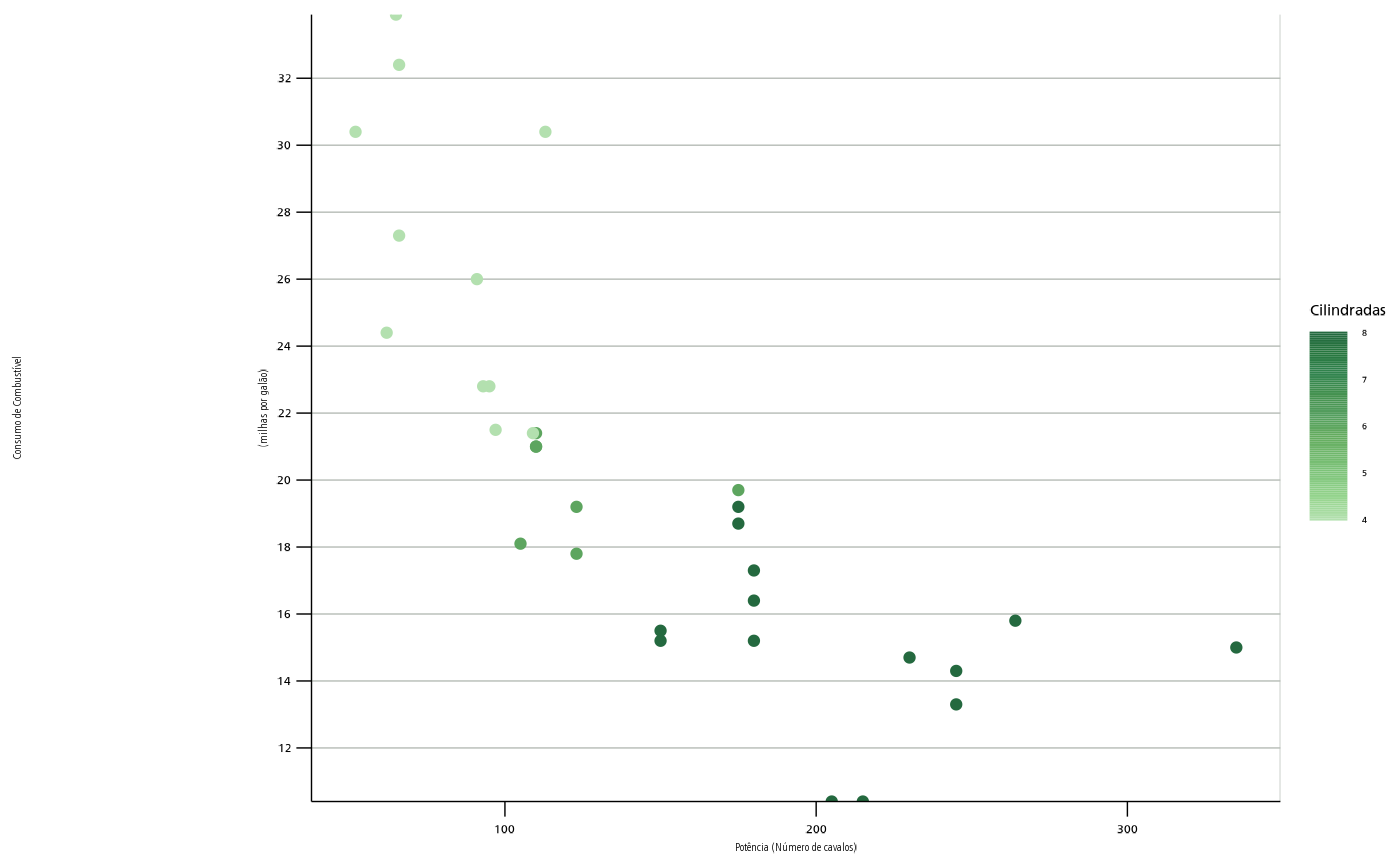
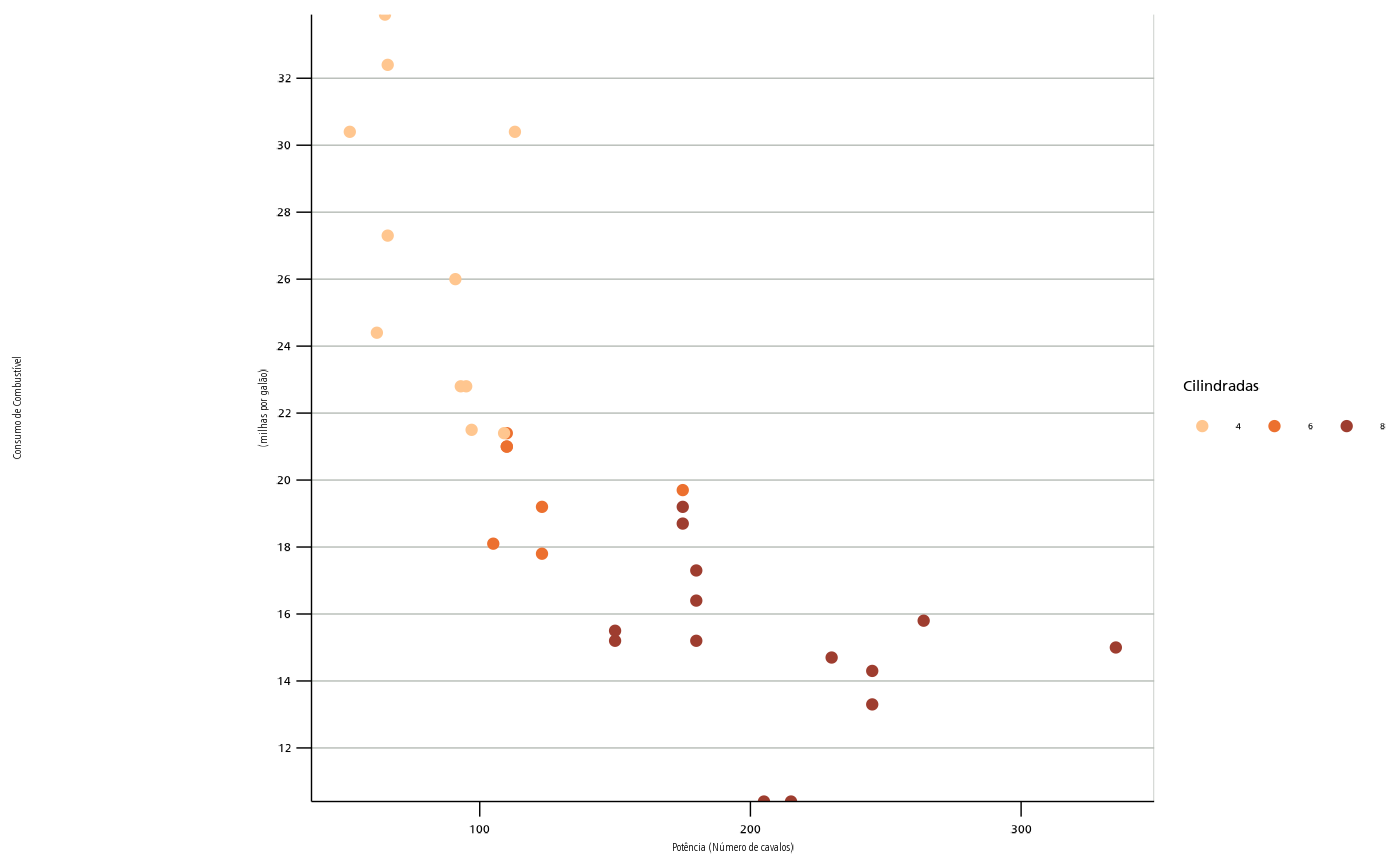
Deploying to gh-pages from @ ipeadata-lab/ipeaplot@4a94a9e4f04e16ceb81d7cdc56aabc15e2f34e58 🚀

diff --git a/articles/intro_ipeaplot.html b/articles/intro_ipeaplot.html
@@ -161,17 +161,18 @@ diversas outras opções. Isso incluir tanto paletas
 <code>c("Blue", "Green", "Orange", "Pink")</code> como paletes de cores
 divergentes <code>c("Red-Blue", "Orange-Blue")</code>.</p>
 <p><strong>Cores sequenciais:</strong>
-<img src="intro_ipeaplot_files/figure-html/unnamed-chunk-5-1.png" width="100%"><img src="intro_ipeaplot_files/figure-html/unnamed-chunk-6-1.png" width="100%"><img src="intro_ipeaplot_files/figure-html/unnamed-chunk-7-1.png" width="100%"><strong>Cores divergentes:</strong>
-<img src="intro_ipeaplot_files/figure-html/unnamed-chunk-8-1.png" width="100%"><img src="intro_ipeaplot_files/figure-html/unnamed-chunk-9-1.png" width="100%"></p>
+<img src="intro_ipeaplot_files/figure-html/unnamed-chunk-5-1.png" width="100%"><img src="intro_ipeaplot_files/figure-html/unnamed-chunk-5-2.png" width="100%"></p>
+<p><img src="intro_ipeaplot_files/figure-html/unnamed-chunk-6-1.png" width="100%"><strong>Cores divergentes:</strong>
+<img src="intro_ipeaplot_files/figure-html/unnamed-chunk-7-1.png" width="100%"><img src="intro_ipeaplot_files/figure-html/unnamed-chunk-8-1.png" width="100%"></p>
 <div class="sourceCode" id="cb4"><pre class="downlit sourceCode r">
 <code class="sourceCode R"><span><span class="co"># paleta sequencial verde</span></span>
 <span><span class="va">fig_base</span> <span class="op">+</span> <span class="fu"><a href="../reference/scale_color_ipea.html">scale_color_ipea</a></span><span class="op">(</span>palette <span class="op">=</span> <span class="st">"Green"</span><span class="op">)</span></span></code></pre></div>
-<p><img src="intro_ipeaplot_files/figure-html/unnamed-chunk-10-1.png" width="100%"></p>
+<p><img src="intro_ipeaplot_files/figure-html/unnamed-chunk-9-1.png" width="100%"></p>
 <div class="sourceCode" id="cb5"><pre class="downlit sourceCode r">
 <code class="sourceCode R"><span></span>
-<span><span class="co"># paleta divergente laranja</span></span>
+<span><span class="co"># paleta divergente de laranja a azul</span></span>
 <span><span class="va">fig_base</span> <span class="op">+</span> <span class="fu"><a href="../reference/scale_color_ipea.html">scale_color_ipea</a></span><span class="op">(</span>palette <span class="op">=</span> <span class="st">"Orange-Blue"</span><span class="op">)</span></span></code></pre></div>
-<p><img src="intro_ipeaplot_files/figure-html/unnamed-chunk-10-2.png" width="100%"></p>
+<p><img src="intro_ipeaplot_files/figure-html/unnamed-chunk-9-2.png" width="100%"></p>
 <p>Por padrão, as funções <code><a href="../reference/scale_color_ipea.html">scale_color_ipea()</a></code> e
 <code><a href="../reference/scale_fill_ipea.html">scale_fill_ipea()</a></code> geram escalas de cores para variáveis
 <strong>contínuas</strong>. Para utilizar uma escala de core para
@@ -185,7 +186,7 @@ variáveis discretas, basta passar o parâmetro
 <span>       color<span class="op">=</span><span class="st">'Cilindradas'</span><span class="op">)</span> <span class="op">+</span></span>
 <span>  <span class="fu"><a href="../reference/scale_color_ipea.html">scale_color_ipea</a></span><span class="op">(</span>palette <span class="op">=</span> <span class="st">"Orange"</span>, discrete <span class="op">=</span> <span class="cn">TRUE</span> <span class="op">)</span> <span class="op">+</span></span>
 <span>  <span class="fu"><a href="../reference/theme_ipea.html">theme_ipea</a></span><span class="op">(</span><span class="op">)</span></span></code></pre></div>
-<p><img src="intro_ipeaplot_files/figure-html/unnamed-chunk-11-1.png" width="100%"></p>
+<p><img src="intro_ipeaplot_files/figure-html/unnamed-chunk-10-1.png" width="100%"></p>
 <p>Além de seleciona a paleta de cores, as funções
 <code><a href="../reference/scale_color_ipea.html">scale_color_ipea()</a></code> e <code><a href="../reference/scale_fill_ipea.html">scale_fill_ipea()</a></code> trazem
 ainda outros parâmetros que permitem escolher o separador de casa
@@ -230,7 +231,7 @@ using <code>ggplot2</code>.</p>
 <span>  <span class="fu"><a href="../reference/theme_ipea.html">theme_ipea</a></span><span class="op">(</span>legend.position <span class="op">=</span> <span class="st">"right"</span><span class="op">)</span> <span class="op">+</span></span>
 <span>  <span class="co"># Use the 'scale_color_ipea(discrete = T)' function to apply the IPEA discrete color scale</span></span>
 <span>  <span class="fu"><a href="../reference/scale_color_ipea.html">scale_color_ipea</a></span><span class="op">(</span>discrete <span class="op">=</span> <span class="cn">T</span><span class="op">)</span></span></code></pre></div>
-<p><img src="intro_ipeaplot_files/figure-html/unnamed-chunk-12-1.png" width="100%" style="display: block; margin: auto;"></p>
+<p><img src="intro_ipeaplot_files/figure-html/unnamed-chunk-11-1.png" width="100%" style="display: block; margin: auto;"></p>
 <div class="sourceCode" id="cb8"><pre class="downlit sourceCode r">
 <code class="sourceCode R"><span></span>
 <span><span class="co"># Create a simple scatter plot with 'dec_date' on the x-axis, 'tempo' on the y-axis, color-coded by 'assunto', and grouped by 'assunto'</span></span>
@@ -248,7 +249,7 @@ using <code>ggplot2</code>.</p>
 <span>  <span class="fu"><a href="../reference/theme_ipea.html">theme_ipea</a></span><span class="op">(</span>legend.position <span class="op">=</span> <span class="st">"none"</span><span class="op">)</span> <span class="op">+</span></span>
 <span>  <span class="co"># Use the 'scale_color_ipea(discrete = T)' function to apply the IPEA discrete color scale</span></span>
 <span>  <span class="fu"><a href="../reference/scale_color_ipea.html">scale_color_ipea</a></span><span class="op">(</span>discrete <span class="op">=</span> <span class="cn">T</span><span class="op">)</span></span></code></pre></div>
-<p><img src="intro_ipeaplot_files/figure-html/unnamed-chunk-12-2.png" width="100%" style="display: block; margin: auto;"></p>
+<p><img src="intro_ipeaplot_files/figure-html/unnamed-chunk-11-2.png" width="100%" style="display: block; margin: auto;"></p>
 <div class="sourceCode" id="cb9"><pre class="downlit sourceCode r">
 <code class="sourceCode R"><span><span class="co"># Calculate the mean values of 'espvida' and 'rdpc' grouped by 'ano' using the 'pnud_muni' dataset</span></span>
 <span><span class="va">graph</span> <span class="op">&lt;-</span> <span class="fu">abjData</span><span class="fu">::</span><span class="va"><a href="https://abjur.github.io/abjData/reference/pnud_muni.html" class="external-link">pnud_muni</a></span> <span class="op"><a href="https://magrittr.tidyverse.org/reference/pipe.html" class="external-link">%&gt;%</a></span></span>
@@ -276,7 +277,7 @@ using <code>ggplot2</code>.</p>
 <span>  <span class="fu"><a href="../reference/scale_color_ipea.html">scale_color_ipea</a></span><span class="op">(</span><span class="op">)</span> <span class="op">+</span></span>
 <span>  <span class="co"># Apply the IPEA theme using 'theme_ipea()'</span></span>
 <span>  <span class="fu"><a href="../reference/theme_ipea.html">theme_ipea</a></span><span class="op">(</span>legend.position <span class="op">=</span> <span class="st">"none"</span><span class="op">)</span></span></code></pre></div>
-<p><img src="intro_ipeaplot_files/figure-html/unnamed-chunk-13-1.png" width="100%" style="display: block; margin: auto;"></p>
+<p><img src="intro_ipeaplot_files/figure-html/unnamed-chunk-12-1.png" width="100%" style="display: block; margin: auto;"></p>
 <div class="sourceCode" id="cb10"><pre class="downlit sourceCode r">
 <code class="sourceCode R"><span><span class="co"># Calculate the mean values of 'espvida' and 'rdpc' grouped by 'ano' using the 'pnud_muni' dataset</span></span>
 <span><span class="va">graph</span> <span class="op">&lt;-</span> <span class="fu">abjData</span><span class="fu">::</span><span class="va"><a href="https://abjur.github.io/abjData/reference/pnud_muni.html" class="external-link">pnud_muni</a></span> <span class="op"><a href="https://magrittr.tidyverse.org/reference/pipe.html" class="external-link">%&gt;%</a></span></span>
@@ -302,7 +303,7 @@ using <code>ggplot2</code>.</p>
 <span>  <span class="fu"><a href="../reference/theme_ipea.html">theme_ipea</a></span><span class="op">(</span><span class="op">)</span> <span class="op">+</span></span>
 <span>  <span class="co"># Apply the IPEA continuous color scale to the fill using 'scale_fill_ipea()'</span></span>
 <span>  <span class="fu"><a href="../reference/scale_fill_ipea.html">scale_fill_ipea</a></span><span class="op">(</span><span class="op">)</span></span></code></pre></div>
-<p><img src="intro_ipeaplot_files/figure-html/unnamed-chunk-14-1.png" width="100%" style="display: block; margin: auto;"></p>
+<p><img src="intro_ipeaplot_files/figure-html/unnamed-chunk-13-1.png" width="100%" style="display: block; margin: auto;"></p>
 <div class="sourceCode" id="cb11"><pre class="downlit sourceCode r">
 <code class="sourceCode R"><span></span>
 <span><span class="co"># Calculate the mean values of 'espvida' and 'rdpc' grouped by 'regn' and 'ano' using the 'pnud_muni' dataset</span></span>
@@ -338,7 +339,7 @@ using <code>ggplot2</code>.</p>
 <span>  <span class="fu"><a href="../reference/scale_fill_ipea.html">scale_fill_ipea</a></span><span class="op">(</span><span class="op">)</span> <span class="op">+</span>  </span>
 <span>  <span class="co"># Set the y-axis limits</span></span>
 <span>  <span class="fu"><a href="https://ggplot2.tidyverse.org/reference/coord_cartesian.html" class="external-link">coord_cartesian</a></span><span class="op">(</span>ylim <span class="op">=</span> <span class="fu"><a href="https://rdrr.io/r/base/c.html" class="external-link">c</a></span><span class="op">(</span><span class="fu"><a href="https://rdrr.io/r/base/Extremes.html" class="external-link">min</a></span><span class="op">(</span><span class="va">graph</span><span class="op">$</span><span class="va">espvida</span><span class="op">)</span>, <span class="fu"><a href="https://rdrr.io/r/base/Extremes.html" class="external-link">max</a></span><span class="op">(</span><span class="va">graph</span><span class="op">$</span><span class="va">espvida</span><span class="op">)</span> <span class="op">+</span> <span class="fl">10</span><span class="op">)</span><span class="op">)</span>  </span></code></pre></div>
-<p><img src="intro_ipeaplot_files/figure-html/unnamed-chunk-15-1.png" width="100%" style="display: block; margin: auto;"></p>
+<p><img src="intro_ipeaplot_files/figure-html/unnamed-chunk-14-1.png" width="100%" style="display: block; margin: auto;"></p>
 </div>
 <div class="section level3">
 <h3 id="thematic-maps">Thematic maps<a class="anchor" aria-label="anchor" href="#thematic-maps"></a>
@@ -385,7 +386,7 @@ municipality code is our key column to join these two databases.</p>
 <span>          <span class="co"># theme_ipea()</span></span>
 <span></span>
 <span><span class="va">fig2</span></span></code></pre></div>
-<p><img src="intro_ipeaplot_files/figure-html/unnamed-chunk-17-1.png" width="100%" style="display: block; margin: auto;">
+<p><img src="intro_ipeaplot_files/figure-html/unnamed-chunk-16-1.png" width="100%" style="display: block; margin: auto;">
 ## Salvando figura</p>
 <p>Finalmente, o pacote <strong>ipeaplot</strong> traz a função
 <code><a href="../reference/save_eps.html">save_eps()</a></code> para facilitar a exportação da figura para um
